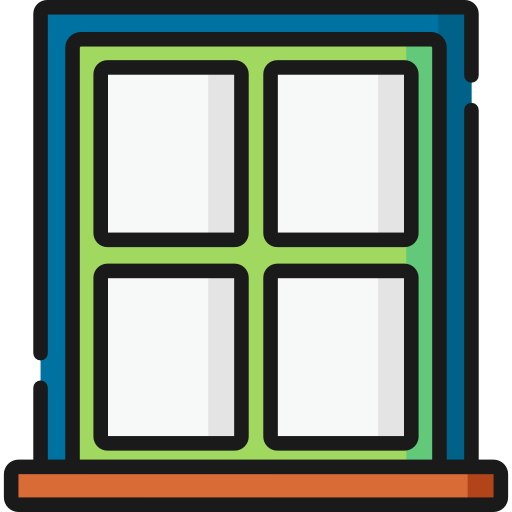
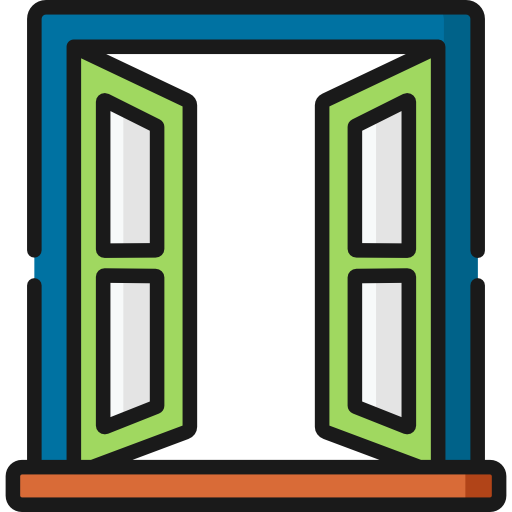
new utils, image corrcetion

diff --git a/src/utils/utils.ts b/src/utils/utils.ts
@@ -1,8 +1,62 @@
-import { Weather } from "models";
+import { SensorRead, Weather } from "models";
 import { OneCallImages } from "assets";
+import {
+  window_open,
+  window_closed,
+  garage_open,
+  garage_closed,
+  temperature,
+  temperature_cold,
+  temperature_hot,
+} from "assets";
 
 export const parseTemp = (temp: number, round: number = 1) =>
   `${temp ? temp.toFixed(round) : "--"}°C`;
 
 export const parseIcon = (wth: Weather[]) =>
   OneCallImages[wth[0].icon as keyof typeof OneCallImages];
+
+export const getTempIcon = (temp: number) => {
+  if (temp < 5) {
+    return temperature_cold;
+  } else if (temp < 22) {
+    return temperature;
+  } else {
+    return temperature_hot;
+  }
+};
+
+export const parseSensorIcon = (sensor: SensorRead) => {
+  switch (sensor.type) {
+    case "window":
+      return sensor.value
+        ? {
+            icon: window_open,
+            state: "Otwarte",
+          }
+        : {
+            icon: window_closed,
+            state: "Zamknięte",
+          };
+    case "gate":
+      return sensor.value
+        ? {
+            icon: garage_open,
+            state: "Otwarta",
+          }
+        : {
+            icon: garage_closed,
+            state: "Zamknięta",
+          };
+    case "temp":
+      return {
+        icon: getTempIcon(sensor.value as number),
+        state: parseTemp(sensor.value as number),
+      };
+    default:
+      return {
+        icon: garage_closed,
+        state: "Otwarte",
+      };
+  }
+};
